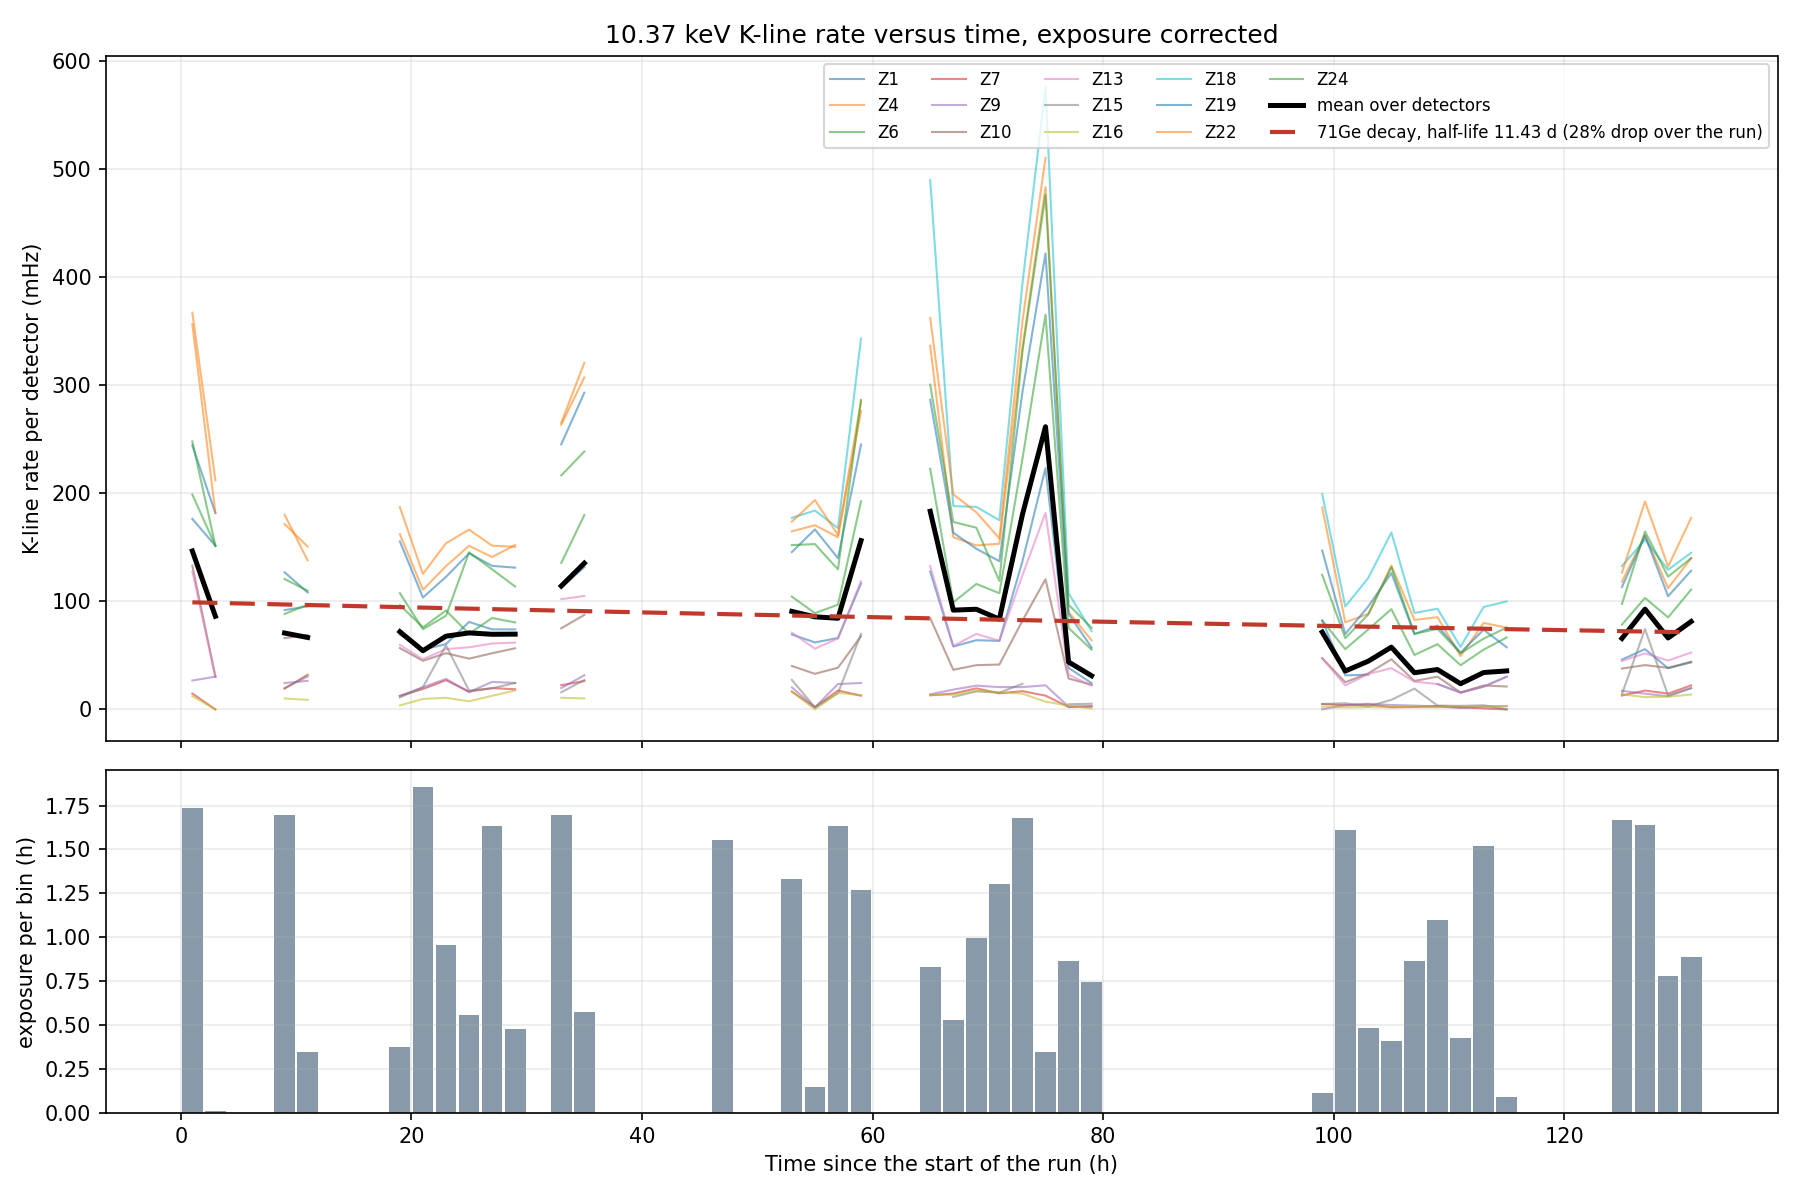
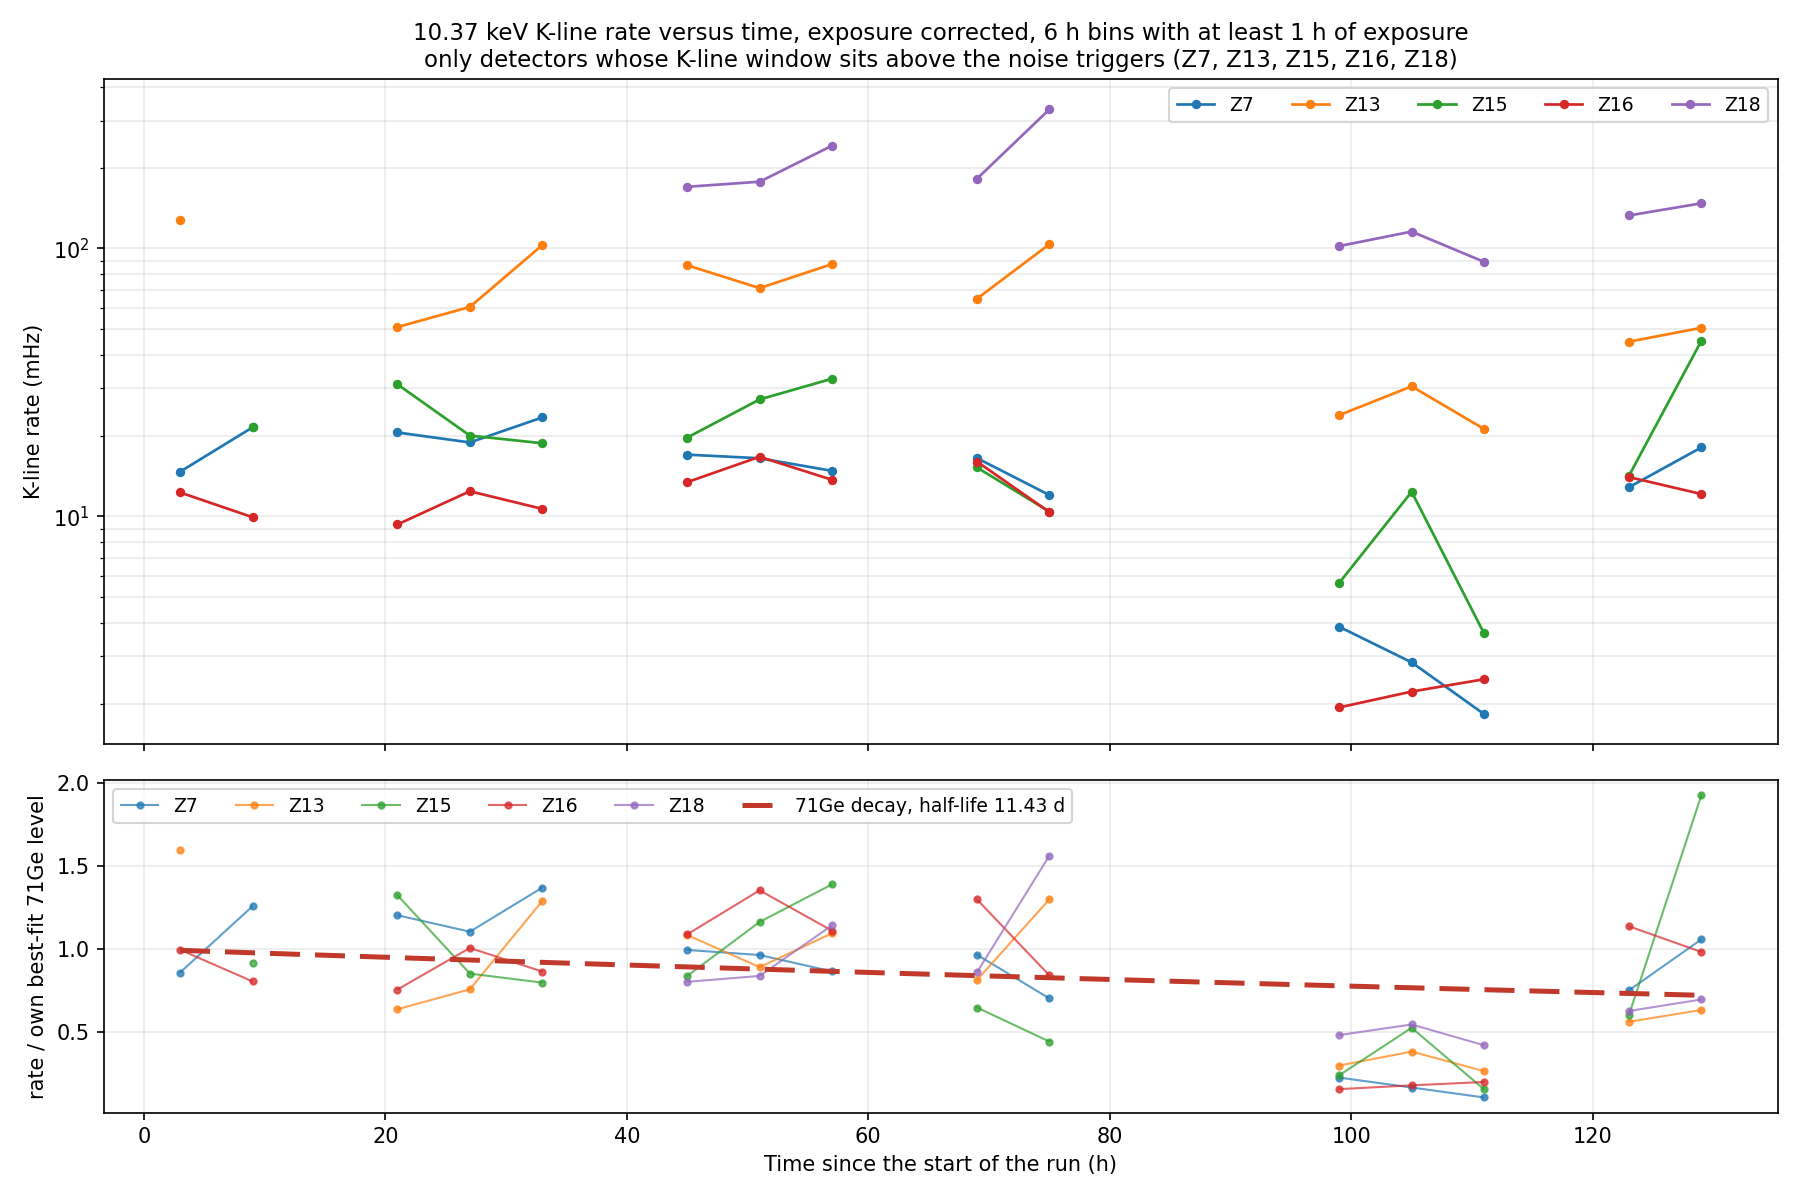
snolab: verification pass, plus the detector table as a bare CSV
Checks that passed:
- K-line selection validated event for event against the raw cache: all 25 cached
  series match exactly (1796 events for Z7), so the Prompt-side counting is right;
- the README tables reproduce results/all_detectors_counts.txt exactly;
- closed-form and numerical energies agree to 0.0000 eV on every event;
- zip10_hump_counts.py still runs standalone after the intermediate npz was
  deleted;
- the regenerated derivation PDF has 17 occurrences of (dI)^2 and no bare dI^2.

Two things the check found and fixed:
- NOTES 6h claimed 96-99% of the fitted pulse energy lands in the official window.
  The real numbers are 98.2-99.3% for PBS1 per event and 84.5-99.4% (median 98.8%)
  for the all-channel sums, with ev 150324 at 0.959 and ev 240632 at 0.845. The
  conclusion is unchanged, the stated range was wrong.
- kline_rate_vs_time.png was misleading: 2 h bins with little exposure turned a
  handful of counts into 500 mHz spikes, and the detectors whose windows overlap
  the noise triggers dominated once the threshold was lowered. It now uses the five
  clean detectors, 6 h bins and a 1 h exposure floor. That makes an instrumental
  feature visible: between 100 and 111 h every detector falls to 0.25-0.5 of its
  level and recovers, which is the deadtime of the six noise-dominated series, not
  decay.

Adds results/all_detectors_event_counts.csv: the 13-detector table alone, no prose,
for download.

diff --git a/snolab/kline_population/scripts/all_detectors_and_kline_time.py b/snolab/kline_population/scripts/all_detectors_and_kline_time.py
@@ -156,6 +156,18 @@ for d in DETS:
         f"{a.size:>9} {n_k:>7} {1e3 * n_k / cover:>12.2f} {n_h:>7} "
         f"{n_h / live:>10.4f} {n_h / cover:>11.4f} {thr:>12.2e}")
 
+# a bare table file, no prose, for download
+with open(os.path.join(RES, "all_detectors_event_counts.csv"), "w") as fh:
+    fh.write("detector,series_used,run_time_h,coverage_h,valid_events,"
+             "kline_events,kline_rate_mHz,hump_events,hump_rate_Hz,"
+             "hump_threshold_A\n")
+    for d in DETS:
+        r = table[d]
+        fh.write(f"Z{d},{r['n_series']},{r['live'] / 3600:.2f},"
+                 f"{r['cover'] / 3600:.2f},{r['valid']},{r['kline']},"
+                 f"{1e3 * r['kline'] / r['cover']:.2f},{r['hump']},"
+                 f"{r['hump'] / r['live']:.4f},{r['thr']:.3e}\n")
+
 say()
 say("Z10 cross-check of the teacher's number: "
     f"{table[10]['hump']} hump events / {table[10]['live'] / 3600:.2f} h run = "
@@ -230,41 +242,74 @@ fig.savefig(f1, dpi=150)
 plt.close(fig)
 print("saved", f1)
 
-# ---------------------------------- figure 2: exposure-corrected rate, summed
+# ---------------------------------- figure 2: exposure-corrected rate over time
+# Only the detectors whose K-line window sits above the noise-trigger population
+# are shown: the others count noise triggers, whose rate jumps when the trigger
+# threshold is lowered part way through the run and swamps the decay. Bins with
+# little exposure are dropped as well, since dividing a handful of counts by 0.1 h
+# produces spikes that are not rate measurements.
+RATE_BIN_H = 6.0
+MIN_EXPOSURE_H = 1.0
+CLEAN = [d for d in DETS if PTOF_RANGES[d][0] > 1e-6]
+redges = np.arange(0, edges[-1] + RATE_BIN_H, RATE_BIN_H)
+rctr = 0.5 * (redges[1:] + redges[:-1])
+
+
+def exposure_on(det, ed):
+    e = np.zeros(len(ed) - 1)
+    for s_ in SERIES:
+        if s_ in EXCLUDE.get(det, ()) or s_ not in t0_series:
+            continue
+        a_ = (t0_series[s_] - T0) / 3600.0
+        b_ = a_ + span_series[s_] / 3600.0
+        e += np.clip(np.minimum(b_, ed[1:]) - np.maximum(a_, ed[:-1]), 0, None)
+    return e
+
+
 fig, (axa, axb) = plt.subplots(2, 1, figsize=(12, 8), sharex=True,
                                gridspec_kw=dict(height_ratios=(2, 1)))
-tot = np.zeros(len(ctr))
-for d in DETS:
+dec_r = np.exp(-np.log(2) * rctr / (GE71_HALFLIFE_D * 24))
+for d in CLEAN:
     lo, hi = PTOF_RANGES[d]
     a, t = data[d]["amp"], data[d]["t"]
-    n, _ = np.histogram(t[(a >= lo) & (a <= hi)], bins=edges)
-    e = exposure(d)
-    r = np.where(e > 0, 1e3 * n / np.maximum(e, 1e-9), np.nan)
-    axa.plot(ctr, r, lw=1.0, alpha=0.55, label=f"Z{d}")
-    tot += n
-exp_all = exposure(7)          # the common exposure (Z7 keeps every series)
-r_tot = np.where(exp_all > 0, 1e3 * tot / np.maximum(exp_all, 1e-9), np.nan)
-axa.plot(ctr, r_tot / len(DETS), lw=2.4, color="black",
-         label="mean over detectors")
-m = np.isfinite(r_tot) & (exp_all > 0)
-dec = np.exp(-np.log(2) * ctr / (GE71_HALFLIFE_D * 24))
-scale = np.sum(r_tot[m] / len(DETS) * dec[m]) / np.sum(dec[m] ** 2)
-axa.plot(ctr, scale * dec, lw=2.0, color="#C0392B", ls=(0, (6, 3)),
-         label=f"71Ge decay, half-life {GE71_HALFLIFE_D} d "
-               f"({100 * (1 - dec[m][-1]):.0f}% drop over the run)")
-axa.set_ylabel("K-line rate per detector (mHz)", fontsize=10)
-axa.legend(fontsize=8, ncol=5)
-axa.grid(alpha=0.25)
-axa.set_title("10.37 keV K-line rate versus time, exposure corrected", fontsize=12)
-axb.bar(ctr, exp_all / 3600.0, width=BIN_HOURS * 0.9, color="#8899AA")
-axb.set_ylabel("exposure per bin (h)", fontsize=10)
+    n, _ = np.histogram(t[(a >= lo) & (a <= hi)], bins=redges)
+    e = exposure_on(d, redges)
+    r = np.where(e >= MIN_EXPOSURE_H, 1e3 * n / np.maximum(e * 3600.0, 1e-9), np.nan)
+    axa.plot(rctr, r, lw=1.3, marker="o", ms=3.5, label=f"Z{d}")
+    # each detector normalised to its own mean, to show the shape together
+    ok = np.isfinite(r)
+    scale = np.sum(r[ok] * dec_r[ok]) / np.sum(dec_r[ok] ** 2)
+    axb.plot(rctr, r / scale, lw=1.0, marker="o", ms=3, alpha=0.7, label=f"Z{d}")
+axa.set_ylabel("K-line rate (mHz)", fontsize=10)
+axa.set_yscale("log")
+axa.legend(fontsize=9, ncol=5)
+axa.grid(alpha=0.25, which="both")
+axa.set_title(f"10.37 keV K-line rate versus time, exposure corrected, "
+              f"{RATE_BIN_H:.0f} h bins with at least {MIN_EXPOSURE_H:.0f} h of "
+              f"exposure\nonly detectors whose K-line window sits above the noise "
+              f"triggers ({', '.join('Z%d' % d for d in CLEAN)})", fontsize=11)
+axb.plot(rctr, dec_r, lw=2.4, color="#C0392B", ls=(0, (6, 3)), zorder=5,
+         label=f"71Ge decay, half-life {GE71_HALFLIFE_D} d")
+axb.set_ylabel("rate / own best-fit 71Ge level", fontsize=10)
 axb.set_xlabel("Time since the start of the run (h)", fontsize=10)
+axb.legend(fontsize=9, ncol=6)
 axb.grid(alpha=0.25)
 fig.tight_layout()
 f2 = os.path.join(PLOTS, "kline_rate_vs_time.png")
 fig.savefig(f2, dpi=150)
 plt.close(fig)
 print("saved", f2)
+
+# the all-detector totals still feed the decay test below
+tot = np.zeros(len(ctr))
+for d in DETS:
+    lo, hi = PTOF_RANGES[d]
+    a, t = data[d]["amp"], data[d]["t"]
+    n, _ = np.histogram(t[(a >= lo) & (a <= hi)], bins=edges)
+    tot += n
+exp_all = exposure(7)
+dec = np.exp(-np.log(2) * ctr / (GE71_HALFLIFE_D * 24))
+m = exp_all > 0
 
 say()
 say("--- 71Ge decay test ---")

diff --git a/snolab/kline_population/README.md b/snolab/kline_population/README.md
@@ -19,6 +19,7 @@ singularity exec -B "$HOME,/projects/standard/yanliusp/shared/" $SIF \
 ```
 
 Outputs: `results/zip10_hump_counts.txt`, `results/all_detectors_counts.txt`,
+`results/all_detectors_event_counts.csv` (the table below, bare, for download),
 `results/plots/kline_counts_vs_time_13dets.png`,
 `results/plots/kline_rate_vs_time.png`.
 
@@ -63,9 +64,18 @@ Z18 have windows above 1e-6 A and therefore clean counts. Z7 gives 14 mHz.
 
 `kline_counts_vs_time_13dets.png` is the requested histogram: counts per 2 h bin
 per detector, with a red dashed curve showing the same total spread over each
-bin's exposure and decaying with the 71Ge half-life. `kline_rate_vs_time.png`
-divides by the exposure so the decay can be read directly, with the exposure per
-bin drawn underneath.
+bin's exposure and decaying with the 71Ge half-life.
+
+`kline_rate_vs_time.png` divides by the exposure so the decay can be read
+directly. It is restricted to the five clean detectors, uses 6 h bins and drops
+bins with under 1 h of exposure: on 2 h bins the low-exposure bins produced 500
+mHz spikes that are not rate measurements, and the contaminated detectors swamped
+everything when the trigger threshold was lowered part way through the run. The
+lower panel normalises each detector to its own best-fit 71Ge level, and shows one
+clear instrumental feature: between 100 and 111 h every detector drops to 0.25-0.5
+of its level and then recovers. That stretch is the six noise-dominated series,
+where the trigger rate costs live time; it is deadtime, not decay, and it is why
+those series are dropped from the test below.
 
 The important scale fact: **the 27 series hold 37.2 h of live time but span 132 h
 (5.5 days) of wall clock**, so the 11.43 d half-life of 71Ge predicts a real drop
